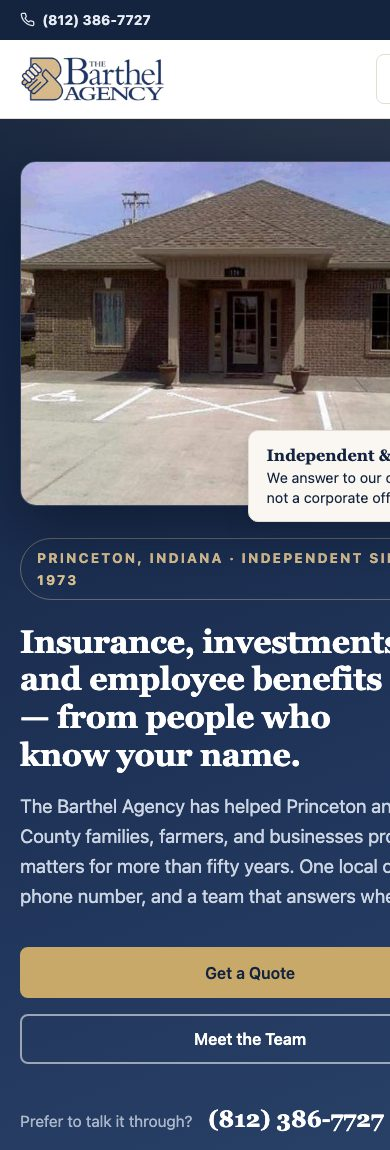
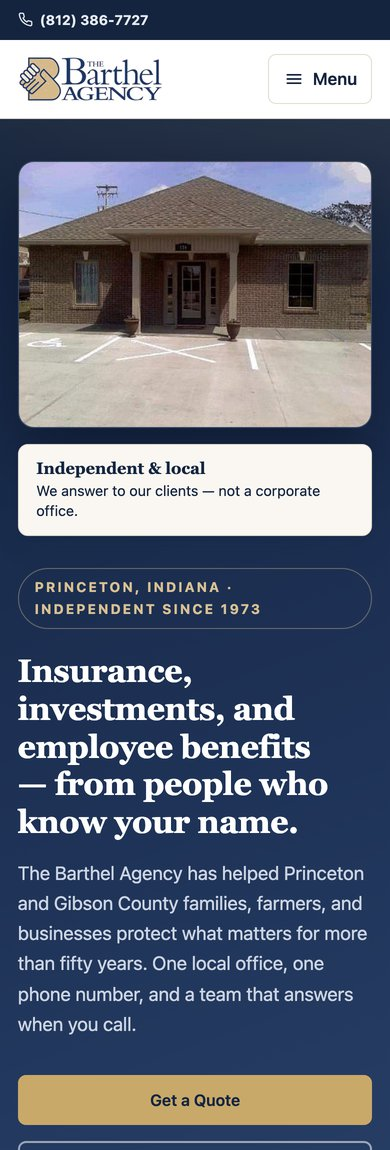
Redesign page: rebuild mobile preview as before/after device comparison
- Replace two-column mobile preview with centered device-framed phones
  (BEFORE/AFTER labels, honest 390px captures of both sites)
- Correct audit copy: old site fits at 390px; critique is template
  widgets first and no contact info on arrival, not overflow
- Fix .section--navy link color overriding ghost-light button text
- Verified full-page renders at 390-1920px, no overflow, all images load

diff --git a/src/pages/redesign/index.html b/src/pages/redesign/index.html
@@ -26,7 +26,7 @@ meta-->
       <li><strong>Template defaults.</strong> Stock hero photography of models in a coffee shop stands in for the actual office, town, and team.</li>
       <li><strong>Generic copy dominates.</strong> The homepage text is boilerplate about &ldquo;a wealth of information in the form of newsletter articles&rdquo; &mdash; the agency&rsquo;s identity, history, and people are invisible.</li>
       <li><strong>Team page spacing.</strong> Uneven photo crops, inconsistent card heights, and empty gaps make a genuinely strong asset (a real, local staff) look unfinished.</li>
-      <li><strong>Weak mobile experience.</strong> Text overflows the viewport at common phone widths; contact info takes digging to find.</li>
+      <li><strong>Weak mobile experience.</strong> The small-screen view leads with a generic stock-market slideshow and boilerplate widgets; on arrival there is no phone number, no address, and no agency identity in sight.</li>
       <li><strong>Unclear conversion path.</strong> Quote links exist (seven of them) but live in a dropdown, not anywhere a first-time visitor would look.</li>
     </ul>
 
@@ -72,28 +72,54 @@ meta-->
 
 <section class="section">
   <div class="wrap">
-    <div class="split">
-      <div>
-        <span class="eyebrow">Mobile preview</span>
-        <h2>Built for the phone first.</h2>
-        <p class="lead" style="font-size:1.03rem">Most local insurance searches happen on a phone, often from a car after an accident or during open enrollment. The concept keeps tap targets large, the phone number one tap away, and text inside the viewport &mdash; the current site (left) overflows on a 390px phone; the concept (right) doesn&rsquo;t.</p>
-        <ul class="checklist">
-          <li>Sticky header with the phone number always visible</li>
-          <li>Accessible slide-in menu, keyboard and screen-reader tested</li>
-          <li>Quote links and hours one tap from any page</li>
-        </ul>
+    <div class="section-head section-head--center">
+      <span class="eyebrow">Mobile preview</span>
+      <h2>Built for the phone first.</h2>
+      <p>For many visitors, the first interaction with the agency will be on a phone. The redesign keeps navigation, contact information, and quote pathways usable at small screen sizes.</p>
+    </div>
+    <div class="phone-compare">
+      <figure class="phone phone--before">
+        <span class="phone__label">Before &middot; Current site</span>
+        <div class="phone__frame">
+          <img src="/img/old-home-mobile.png" alt="Current site rendered at 390 pixels wide: a generic stock-market slideshow and boilerplate widgets, with no phone number or agency identity visible" width="390" height="1150" loading="lazy">
+        </div>
+        <figcaption>Current site, 390px &mdash; template widgets first; no phone number on arrival</figcaption>
+      </figure>
+      <figure class="phone phone--after">
+        <span class="phone__label">After &middot; Redesign concept</span>
+        <div class="phone__frame">
+          <img src="/img/new-home-mobile.jpg" alt="Redesign concept rendered at 390 pixels wide: phone number in the top bar, real office photo, agency identity, and a quote button" width="390" height="1150" loading="lazy">
+        </div>
+        <figcaption>This concept, 390px &mdash; identity and contact on arrival</figcaption>
+      </figure>
+    </div>
+    <div class="cred__grid phone-benefits">
+      <div class="cred__item">
+        <span class="cred__icon" aria-hidden="true">
+          <svg viewBox="0 0 24 24"><path d="M22 16.92v3a2 2 0 0 1-2.18 2 19.79 19.79 0 0 1-8.63-3.07 19.5 19.5 0 0 1-6-6 19.79 19.79 0 0 1-3.07-8.67A2 2 0 0 1 4.11 2h3a2 2 0 0 1 2 1.72c.127.96.361 1.903.7 2.81a2 2 0 0 1-.45 2.11L8.09 9.91a16 16 0 0 0 6 6l1.27-1.27a2 2 0 0 1 2.11-.45c.907.339 1.85.573 2.81.7A2 2 0 0 1 22 16.92z"/></svg>
+        </span>
+        <div>
+          <strong>Phone always in reach</strong>
+          <span>Pinned in the top bar and hero on every page</span>
+        </div>
       </div>
-      <div style="display:flex;gap:var(--space-4);align-items:flex-start;justify-content:center">
-        <figure style="margin:0;max-width:220px">
-          <img src="/img/old-home-mobile.png" alt="Current site on a 390px phone: text clipped at the right edge" width="390" height="1150" loading="lazy" style="border:1px solid var(--line);border-radius:14px">
-          <figcaption style="font-size:0.8rem;color:var(--ink-mute);margin-top:0.5rem">Current site, 390px &mdash; clipped text</figcaption>
-        </figure>
-        <figure style="margin:0;max-width:220px;position:relative">
-          <div style="border:1px solid var(--line);border-radius:14px;overflow:hidden;box-shadow:var(--shadow-2)">
-            <img src="/img/new-home-mobile.jpg" alt="Concept site on a 390px phone: hero with headline, office photo, and call button" width="390" height="1150" loading="lazy" style="display:block">
-          </div>
-          <figcaption style="font-size:0.8rem;color:var(--ink-mute);margin-top:0.5rem">This concept, 390px &mdash; resize your browser or view on a phone</figcaption>
-        </figure>
+      <div class="cred__item">
+        <span class="cred__icon" aria-hidden="true">
+          <svg viewBox="0 0 24 24"><rect x="3" y="4" width="18" height="16" rx="3"/><path d="M7 9h10M7 13h10M7 17h6"/></svg>
+        </span>
+        <div>
+          <strong>Accessible mobile menu</strong>
+          <span>Large tap targets, keyboard- and screen-reader-tested</span>
+        </div>
+      </div>
+      <div class="cred__item">
+        <span class="cred__icon" aria-hidden="true">
+          <svg viewBox="0 0 24 24"><path d="M4 4l7.5 16 2.1-6.4L20 11.5z"/></svg>
+        </span>
+        <div>
+          <strong>Actions one tap away</strong>
+          <span>Quotes, service requests, and hours from any page</span>
+        </div>
       </div>
     </div>
   </div>

diff --git a/src/css/site.css b/src/css/site.css
@@ -175,6 +175,15 @@ small,
   color: #d8c194;
 }
 
+.section--navy a.btn--light,
+.section--navy a.btn--primary {
+  color: var(--navy-deep);
+}
+
+.section--navy a.btn--ghost-light {
+  color: var(--white);
+}
+
 .section-head {
   max-width: 46em;
   margin-bottom: var(--space-5);
@@ -1300,6 +1309,86 @@ small,
 
 .notice--gold {
   border-left: 4px solid var(--gold);
+}
+
+/* ---- phone comparison (redesign page) ---- */
+.section-head--center {
+  margin-inline: auto;
+  text-align: center;
+}
+
+.phone-compare {
+  display: flex;
+  flex-wrap: wrap;
+  justify-content: center;
+  align-items: flex-start;
+  gap: clamp(2rem, 6vw, 4.5rem);
+  max-width: 840px;
+  margin-inline: auto;
+}
+
+.phone {
+  margin: 0;
+  flex: 1 1 280px;
+  min-width: 250px;
+  max-width: 320px;
+  display: flex;
+  flex-direction: column;
+  align-items: center;
+}
+
+.phone__label {
+  font-size: 0.75rem;
+  font-weight: 700;
+  letter-spacing: 0.14em;
+  text-transform: uppercase;
+  padding: 0.4rem 1rem;
+  border-radius: 999px;
+  margin-bottom: var(--space-4);
+  white-space: nowrap;
+}
+
+.phone--before .phone__label {
+  background: var(--paper-dark);
+  color: var(--ink-mute);
+  border: 1px solid var(--line);
+}
+
+.phone--after .phone__label {
+  background: var(--navy);
+  color: var(--white);
+}
+
+.phone__frame {
+  width: 100%;
+  border-radius: 32px;
+  background: var(--navy-deep);
+  padding: 10px;
+  box-shadow: var(--shadow-2);
+}
+
+.phone__frame img {
+  display: block;
+  width: 100%;
+  height: auto;
+  border-radius: 23px;
+}
+
+.phone--before .phone__frame {
+  background: #565f6d;
+}
+
+.phone figcaption {
+  margin-top: var(--space-3);
+  font-size: 0.85rem;
+  color: var(--ink-mute);
+  text-align: center;
+  max-width: 30ch;
+}
+
+.phone-benefits {
+  max-width: 980px;
+  margin: var(--space-6) auto 0;
 }
 
 /* ==========================================================================
